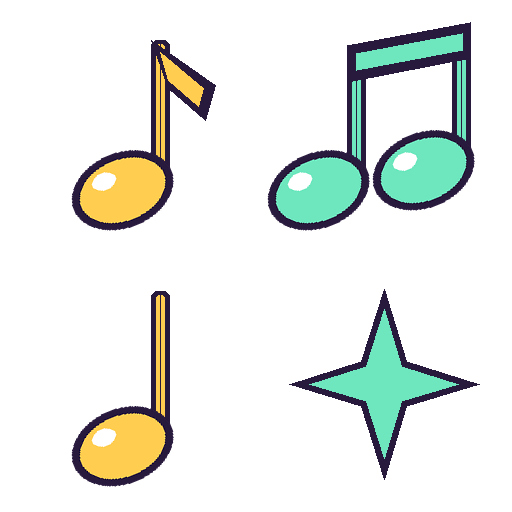
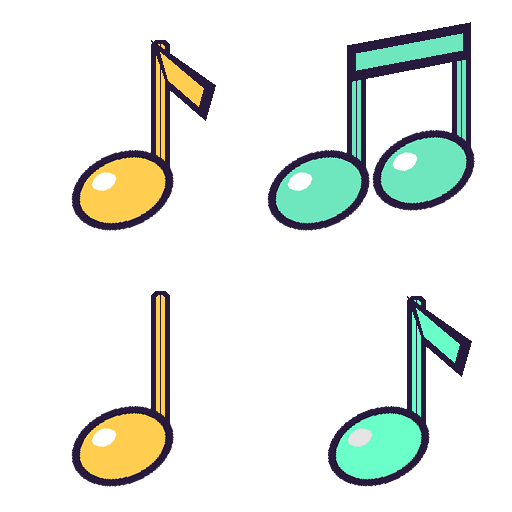
feat(training): the whole Training bay starts training, each player on their own pad and server at once (TrainingZoneRules specced, TrainingZoneSystem pools one-seat full-bay pads; the TrainingPad is now just the sign anchor, a soft mint mat instead of neon); Prickles never wears the gritted-teeth G

Changed region(s): [[0.5625, 0.5625, 0.9375, 0.9688]]

diff --git a/design/production-art/hub-dressing/README.md b/design/production-art/hub-dressing/README.md
@@ -69,3 +69,9 @@ Sheet: notes `hub-r3-radio-bell-v2-look.jpg`.
 | snack bottle | 74718849864046 | 138701778330518 | 121692672852079 / 92203595821535 / 101705239471195 |
 | snack chips | 133010450796957 | 84514870296740 | 76220164300441 / 134696409403450 / 114105196004947 |
 | snack bar | 79264925729143 | 115883930717980 | 100262445950274 / 138703037299381 / 98278877383864 |
+
+## Round 6 (2026-11-12, owner notes)
+- **Radio notes without the star.** The owner said the 4-point sparkle cell in `radio_notes_flipbook.png` looked
+  AI-made; it is a mint eighth note now (notes only). A decal cannot be updated in place over Open Cloud ("Updating
+  Decal is not supported yet"), so it is a new upload: decal 79230367007309, image 118582584373486 (both checked
+  group 189923277); `DepotAssets.RADIO_NOTES` points at the image.
